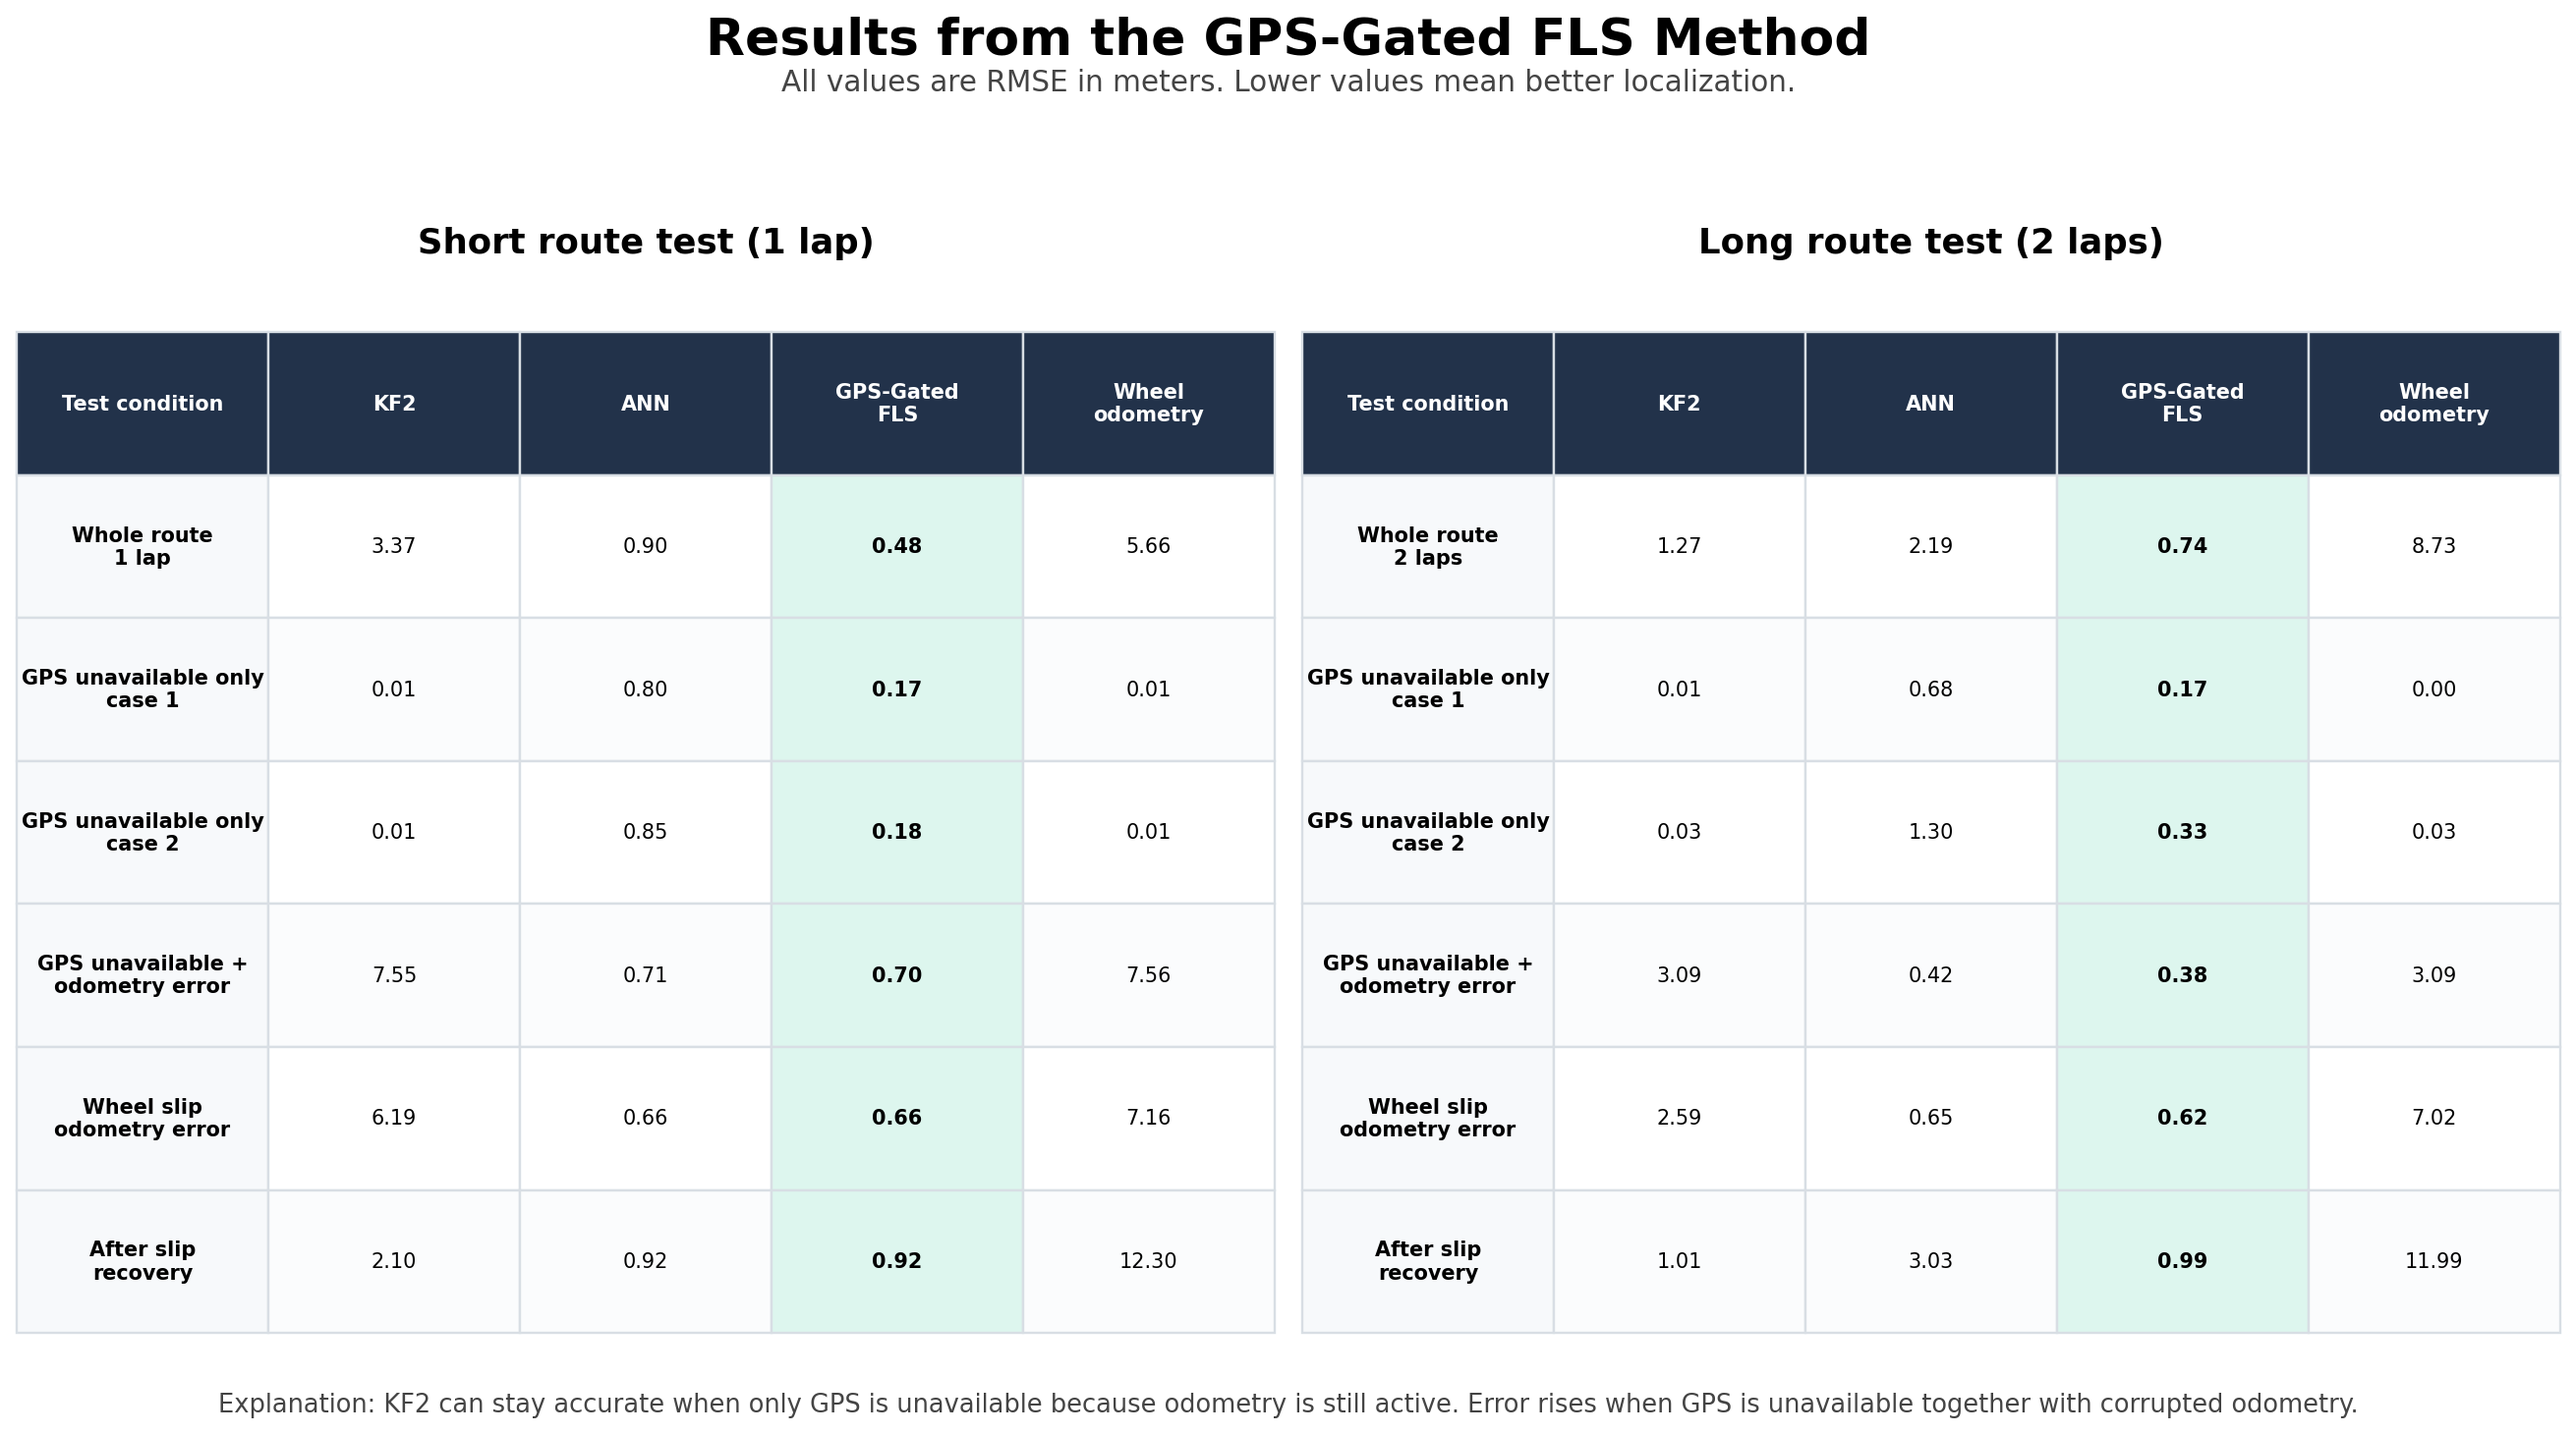
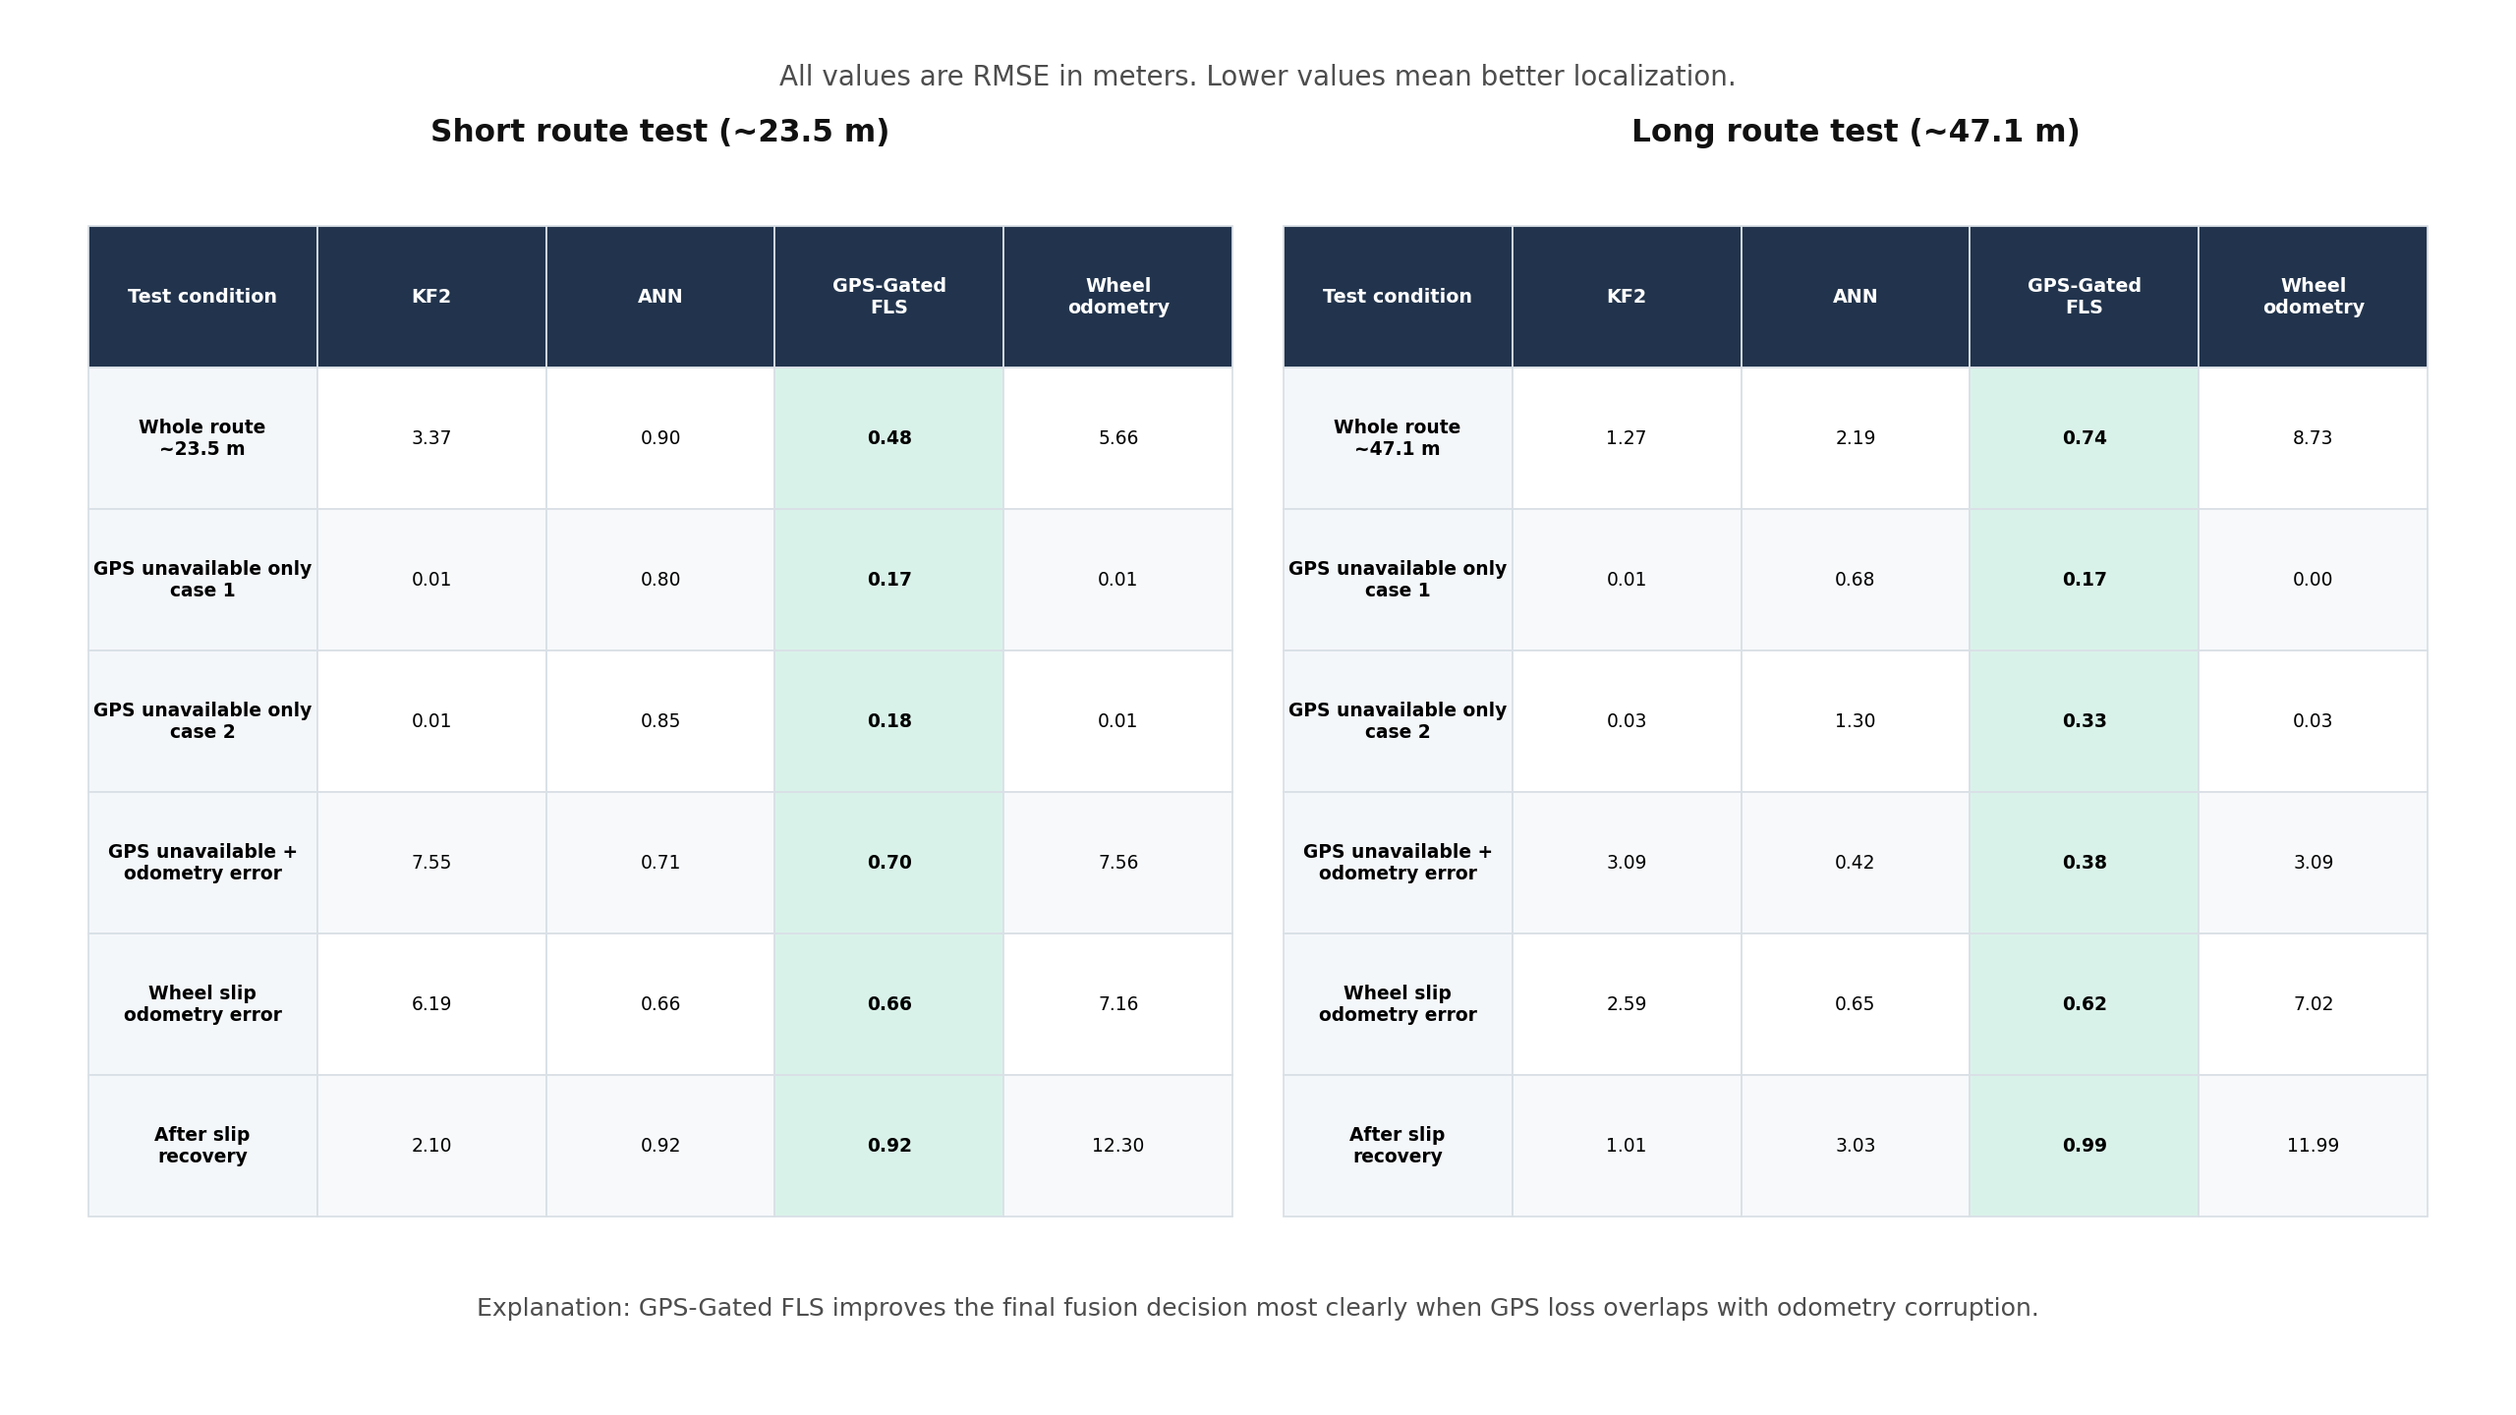
Update README title and result figures

diff --git a/README.md b/README.md
@@ -1,4 +1,4 @@
-# GPS/INS/Odometry Localization with ANN and Fuzzy Logic Fusion
+# ANN and FLS Robot Localization
 
 ROS 2 Humble and Gazebo project for mobile robot localization under GPS dropout
 and wheel-slip conditions. The project reproduces the main sensor-fusion idea
@@ -27,6 +27,16 @@ Estimate robot position more accurately when:
 
 The goal is not to replace the paper method, but to reproduce it first and then
 show a practical improvement for the most difficult cases.
+
+## Reference Paper
+
+This project is based on the methodology from:
+
+S. Yousuf and M. B. Kadri, "Information Fusion of GPS, INS and Odometer Sensors
+for Improving Localization Accuracy of Mobile Robots in Indoor and Outdoor
+Applications," *Robotica*, 2020.
+
+DOI: https://doi.org/10.1017/S0263574720000351
 
 ## Methodology Overview
 
@@ -107,12 +117,12 @@ Key final comparison:
 
 | Case | Original Paper FLS | GPS-Gated FLS | RMSE reduction |
 |---|---:|---:|---:|
-| Short overall | 0.93 m | 0.48 m | 47.9% |
-| Long overall | 2.07 m | 0.74 m | 64.4% |
-| Short slip | 1.20 m | 0.66 m | 45.2% |
-| Long slip | 1.45 m | 0.62 m | 57.5% |
-| Short after-slip recovery | 0.89 m | 0.92 m | -2.9% |
-| Long after-slip recovery | 2.82 m | 0.99 m | 65.0% |
+| Whole route, long route | 2.07 m | 0.74 m | 64.4% |
+| GPS unavailable only, case 1 | 0.56 m | 0.17 m | 69.6% |
+| GPS unavailable only, case 2 | 0.56 m | 0.33 m | 41.1% |
+| GPS unavailable + odometry error | 1.60 m | 0.38 m | 76.3% |
+| Wheel slip odometry error | 1.45 m | 0.62 m | 57.2% |
+| After slip recovery | 2.82 m | 0.99 m | 64.9% |
 
 The strongest improvement appears in long-route and slip-related localization
 cases, especially after wheel-slip recovery.
